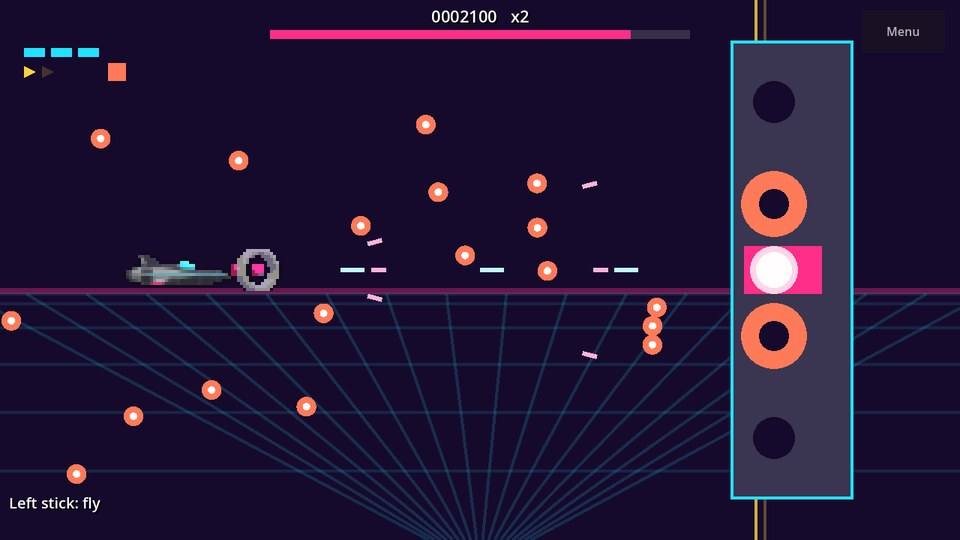
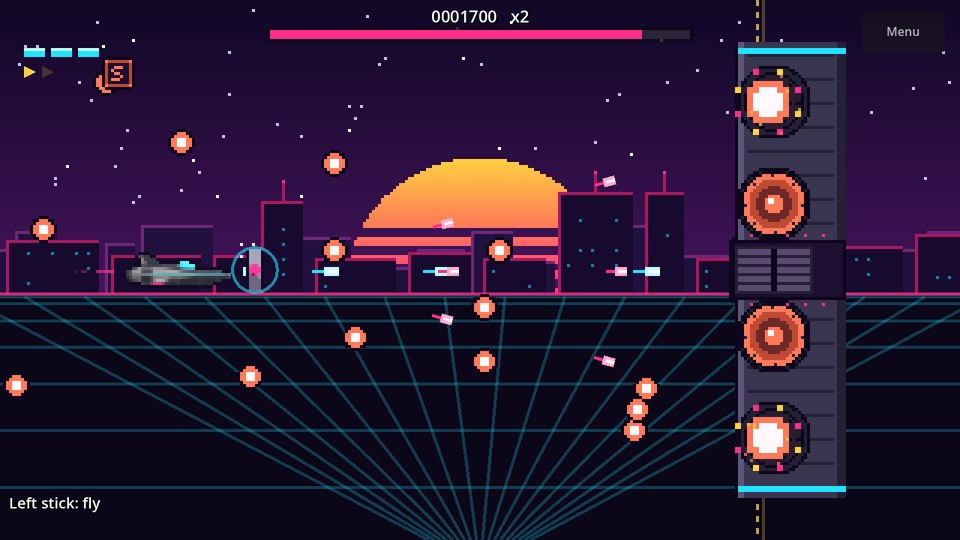
The Game Shelf: Sunset Static v0.3.0
Claude-Session: https://claude.ai/code/session_0117TTYCJVbisBDMqEnDgQ5M

diff --git a/index.html b/index.html
@@ -131,11 +131,11 @@ h2 a[href="lo-fi-league/"]{font-size:.9em;word-spacing:.35em}h2 a[href="pixel-ho
 </article>
 
 <article class="card" data-repo="sunset-static">
-<a class="shot" href="sunset-static/"><img src="images/sunset-static.jpg?v=0.2.0" alt="Sunset Static: the needle ship and its pod facing the Bass Tower and its fans of bullets" width="960" height="540" loading="lazy"></a>
+<a class="shot" href="sunset-static/"><img src="images/sunset-static.jpg?v=0.3.0" alt="Sunset Static: the needle ship and its pod face the Bass Tower in neon pixel art over a sunset sun" width="960" height="540" loading="lazy"></a>
 <div class="body">
 <div class="top"><h2><a href="sunset-static/">Sunset Static</a></h2><span class="tag">A calm neon side-scrolling shooter</span></div>
-<p class="desc">Fly a needle ship right through a synthwave night. Shoot the waves, charge a beam and steer a shield pod past the Bass Tower and The Big Disc. A hit costs shield, never progress. Cruise, Standard or Arcade. Five save slots. Plays with touch, a keyboard or an Xbox controller, held upright or sideways.</p>
-<p class="meta">Browser and Android<span class="ver"> · Version 0.2.0</span> <span class="upd">· Updated <time datetime="2026-11-19T19:40-06:00">Nov 19, 2026, 7:40 PM CT</time></span></p>
+<p class="desc">Fly a needle ship through a neon synthwave night in pixel art. Shoot the waves, charge a beam and steer a shield pod past the Bass Tower and The Big Disc, to a synthwave soundtrack. A hit costs shield, never progress. Cruise, Standard or Arcade. Five save slots. Plays with touch, a keyboard or an Xbox controller, held upright or sideways.</p>
+<p class="meta">Browser and Android<span class="ver"> · Version 0.3.0</span> <span class="upd">· Updated <time datetime="2026-11-19T20:15-06:00">Nov 19, 2026, 8:15 PM CT</time></span></p>
 <div class="actions"><a class="btn" href="sunset-static/">Open game page</a></div>
 </div>
 </article>
